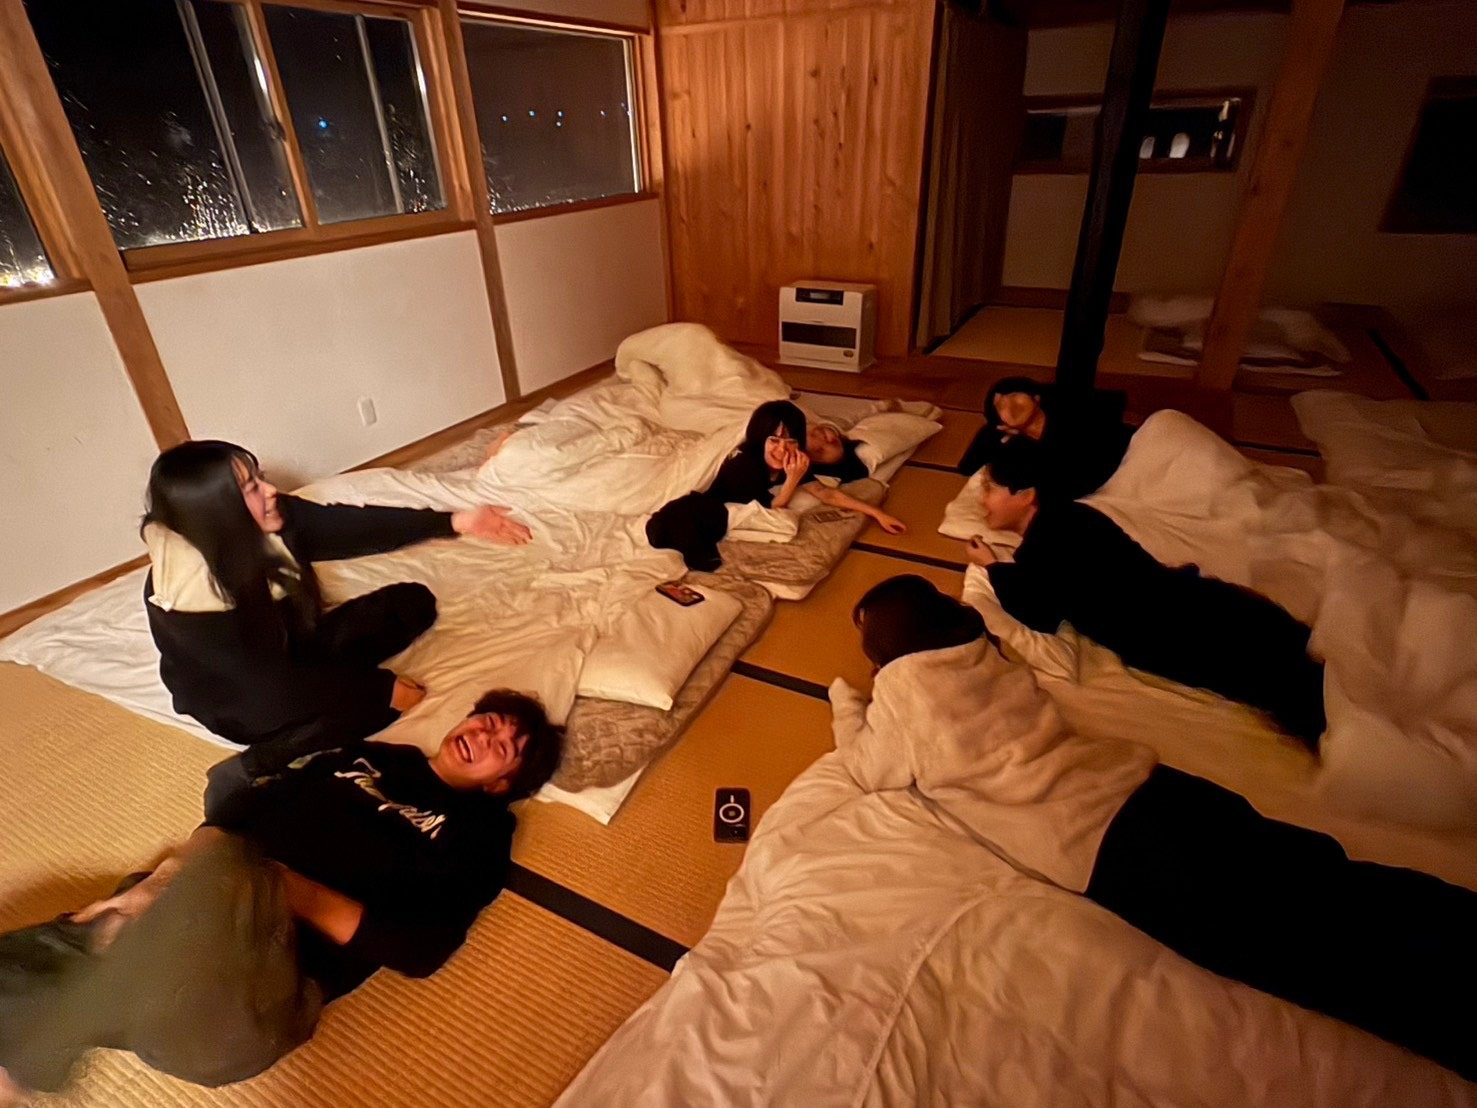
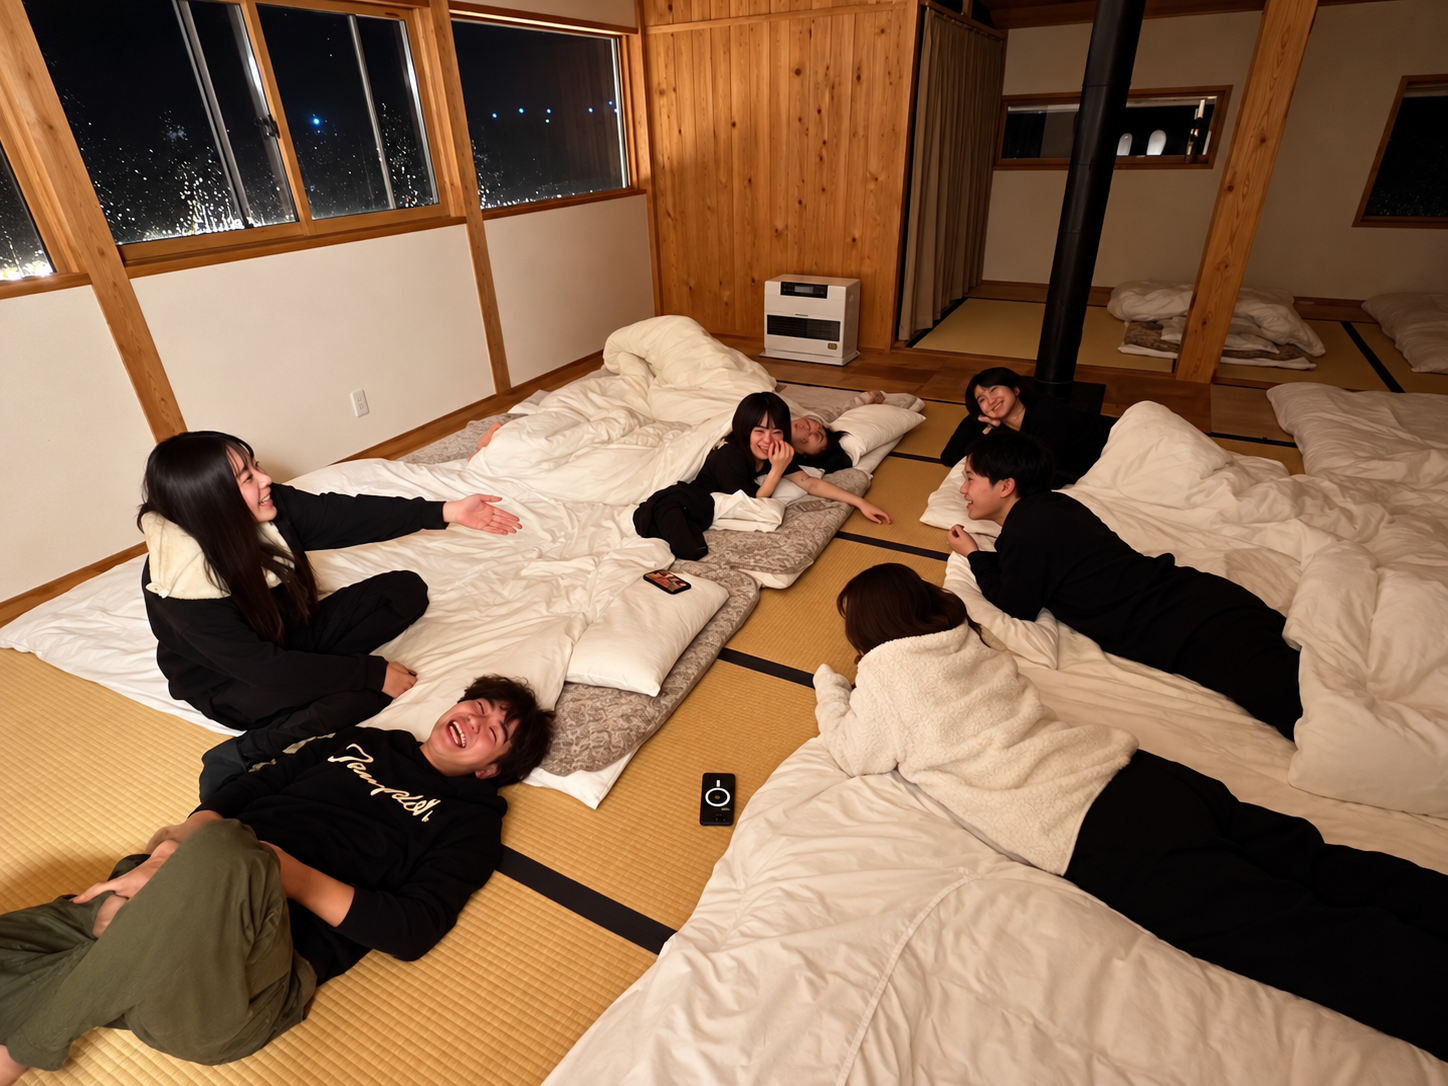
fix: eventimage

diff --git a/src/data/media.ts b/src/data/media.ts
@@ -17,13 +17,12 @@ import eventBbq from "../assets/eventGallery/631309317735973394.jpg";
 import eventSports from "../assets/eventGallery/631309317752750676.jpg";
 import eventTrip from "../assets/eventGallery/631309318037963299.jpg";
 import eventTogether from "../assets/eventGallery/632021853884121548.jpg";
-import eventStay from "../assets/eventGallery/632021154306982353.jpg";
 
 export const HERO_SLIDES: ImageMetadata[] = [
   eventBbq,
   eventTogether,
   eventSports,
-  eventStay,
+  eventTrip,
 ];
 
 export const GALLERY_PHOTOS = [
